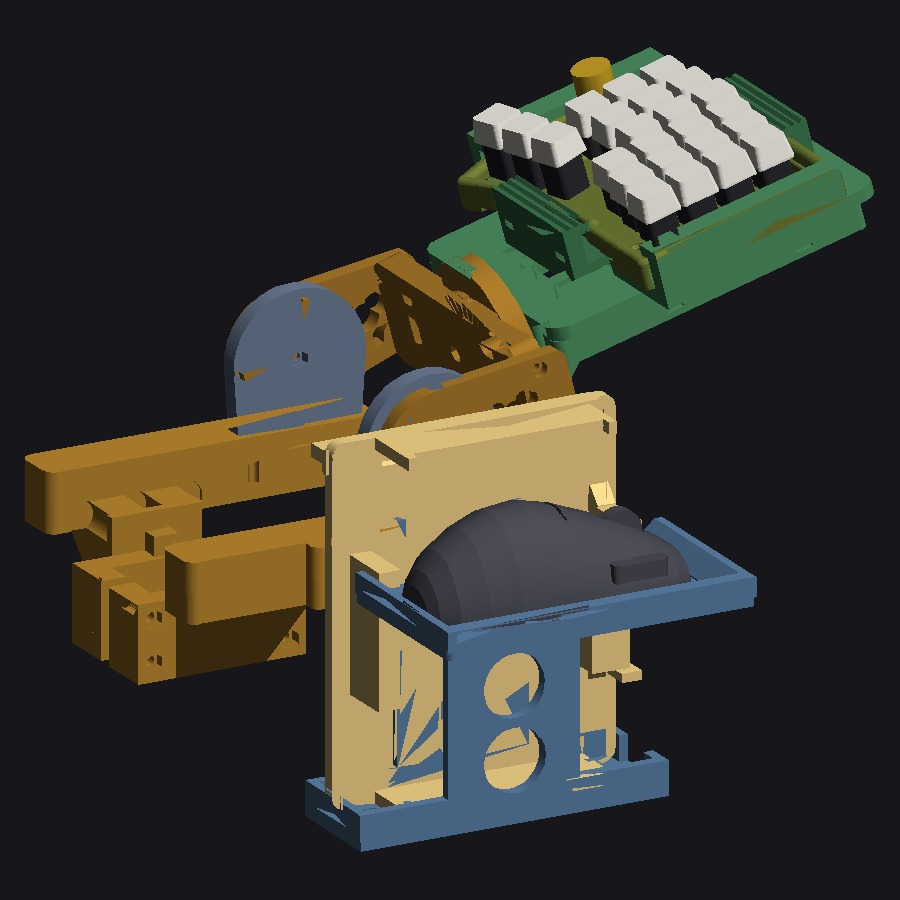
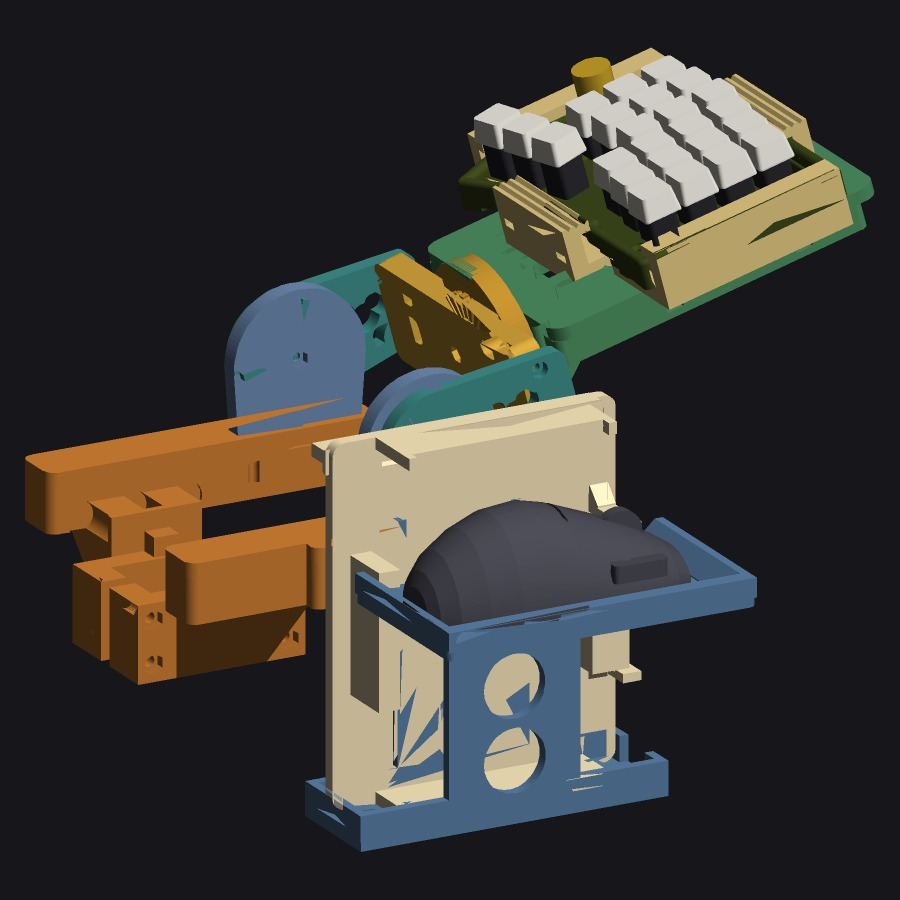
Add files via upload

diff --git a/DY55SY6J/index.html b/DY55SY6J/index.html
@@ -116,23 +116,41 @@
     <figure class="dock-overview rise">
       <img src="figures/fig-overview.jpg" alt="右アーム全体図。真上から見たところ" loading="lazy">
       <figcaption>
-        右アームを真上から。緑＝キーボードを受けるキャリッジ、灰＝アームとアップライト、
-        橙＝立てて収めたカバー、青＝カバー置き場とマウス棚。
+        右アームを真上から。橙＝支柱クランプ、青＝アップライト、緑＝キーボードを受けるデッキ、
+        薄い金＝レールとラッチ、濃いオリーブと白＝載っているキーボード、
+        クリーム＝立てて収めたカバー、スチールブルー＝常設のカバー置き場とマウス棚。
         キーボード・カバー・マウスの三つが、腕1本ぶんの幅に収まります。
       </figcaption>
     </figure>
 
     <!-- ▼ 機能の説明 -->
-    <div class="feat rise">
+    <div class="feat wide rise">
       <div class="feat-txt">
-        <h3>置くのではなく、噛ませる</h3>
+        <h3>専用ケースだから、ぴったり収まる</h3>
         <p>
-          キーボードを前から水平に差し込むと、レールの爪がケースの縁に掛かり、
-          前ラッチが噛みます。持ち上げても外れません。
-          外すときは前ラッチを6mm前へ滑らせるだけです。
+          分割キーボードの<strong>専用ケースに合わせて</strong>、レールとラッチを作っています。
+          汎用ホルダーのように挟み込むのではなく、そのケースのための受けです。
+          レールの爪がケースの縁に掛かり、前後をラッチで押さえます。
+        </p>
+        <p>
+          固定はM4ネジ8本。<strong>取り付け穴はすべて長穴です。</strong>
+          レールとラッチをそろえて動かせば、<strong>キーボードの位置ごと
+          左右に±3mm、前後に±10mm ずらせます。</strong>
+          実際にケースを載せた状態で位置を出してから本締めするので、
+          手の長さや座り方に合わせてミリ単位で追い込めます。
+          左右のガタは片側0.5mm程度に収まります。
         </p>
       </div>
-      <figure class="feat-fig"><img src="figures/fig-slidein.svg" alt="差し込みとラッチの図"></figure>
+      <figure class="feat-fig">
+        <img src="figures/fig-fit.webp" alt="真上から見た、レールとラッチが長穴の範囲で動く様子" loading="lazy">
+        <figcaption>
+          真上から見た、取り付け位置の可動範囲。左＝キーボードを載せた状態、
+          右＝外してレールとラッチが見える状態で、2つは連動しています。
+          破線が中央（基準）の位置。まず左右、次に前後の順に動きます。
+          緑のデッキは動かず、金色のレールとラッチ、そしてキーボードが一緒に動きます。
+          実際の設計データから描き出しています。
+        </figcaption>
+      </figure>
     </div>
 
     <div class="feat wide rise">
@@ -147,9 +165,10 @@
       <figure class="feat-fig">
         <img src="figures/fig-motion.webp" alt="チルトとテントの角度が変わる様子">
         <figcaption>
-          左＝チルト（上下の角度）を側面から、右＝テント（左右の傾き）を正面から。
-          ブロンズ＝支柱クランプとアーム、青灰＝アップライト、緑＝キーボードを受けるキャリッジ、
-          オリーブと白＝載っているキーボード。実際の設計データから描き出しています。
+          左＝チルト（上下の角度）を側面から、右＝テント（左右の傾き）を斜め前から。
+          橙＝支柱クランプ、ティール＝角度を作る腕、黄＝クロスバーとテントパック、
+          青＝アップライト、緑＝デッキ、薄い金＝レールとラッチ、
+          濃いオリーブと白＝キーボード。実際の設計データから描き出しています。
         </figcaption>
       </figure>
     </div>
@@ -175,8 +194,9 @@
           外側には高さ10mmのフチが立つので、傾けても滑り落ちません。天板は168×138mmです。
         </p>
       </div>
-      <figure class="feat-fig light">
-        <img src="figures/fig-cover.jpg" alt="キーボードに被せるマウス台の図" loading="lazy">
+      <figure class="feat-fig">
+        <img src="figures/fig-cover.jpg" alt="被せる前と、カバーを載せてマウスを置いた状態" loading="lazy">
+        <figcaption>左＝被せる前、右＝カバーを載せた状態。実際の設計データから描き出しています。</figcaption>
       </figure>
     </div>
 

diff --git a/DY55SY6J/script.js b/DY55SY6J/script.js
@@ -24,7 +24,7 @@ const NOTES = {
   "分割キーボードアーム":
     "自作の分割キーボードを、椅子のアームレストに載せるドック。" +
     "机ではなく椅子側に手を固定してしまえば、姿勢を変えても手の位置が変わらない、という発想でつくりました。" +
-    "キーボードは前から水平に差し込むとラッチが噛み、持ち上げても抜けません。" +
+    "分割キーボードの専用ケースに合わせてレールとラッチを作り、M4ネジ8本で固定します。取り付け穴はすべて長穴なので、ケースを載せた状態で位置を出してから本締めできます。" +
     "チルトは15度刻みの歯で位置が決まり、テント角も別軸で調整できます。" +
     "片腕ぶんで9種・523g・印刷32時間。素材はPETG。" +
     "設計は寸法をひとつの設定ファイルにまとめてコードから生成し、" +

diff --git a/DY55SY6J/style.css b/DY55SY6J/style.css
@@ -245,8 +245,7 @@ figcaption{
 }
 .dock-overview img{
   width:100%; max-width:520px;
-  background:#f4f2ec; padding:clamp(10px,1.6vw,20px);
-  border:1px solid var(--line-soft);
+  background:var(--bg-3); border:1px solid var(--line-soft);
 }
 .dock-overview figcaption{max-width:620px; text-align:center}
 
